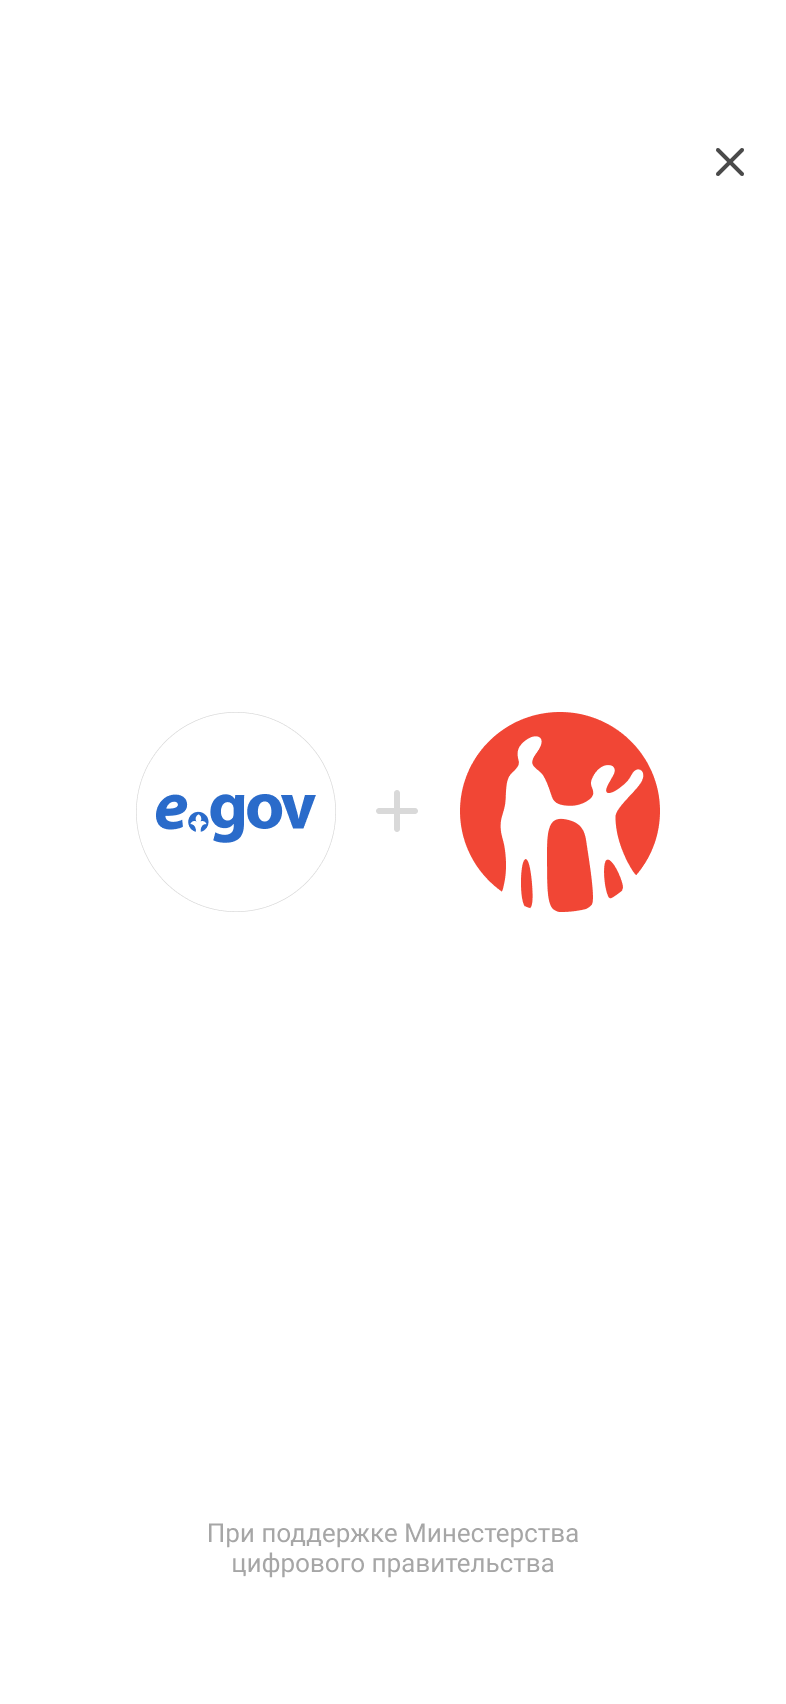
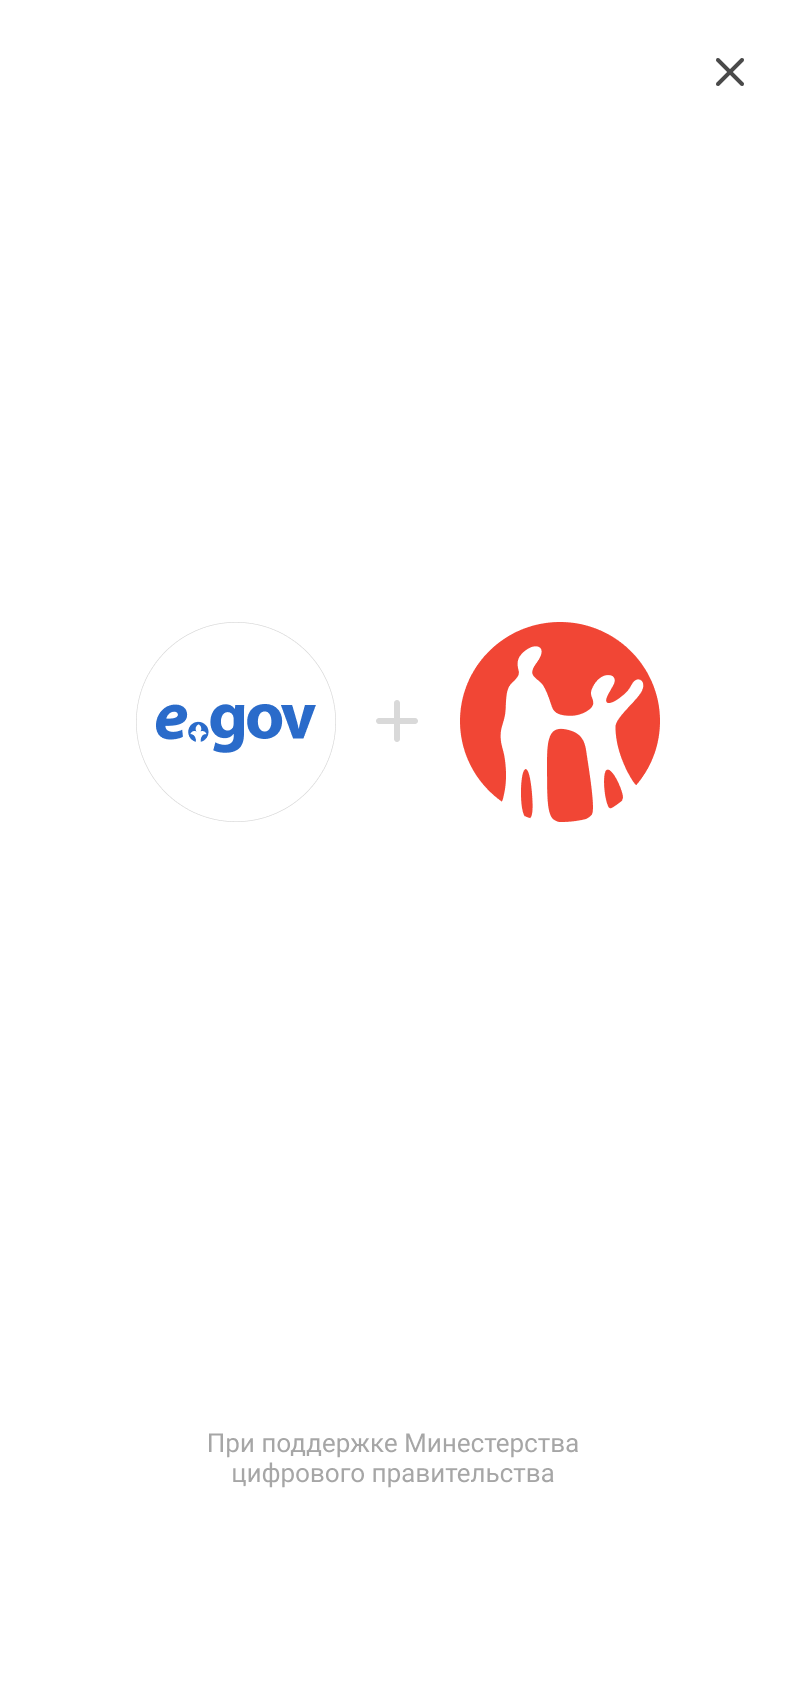
Add files via upload

diff --git a/style.css b/style.css
@@ -11,7 +11,19 @@ body {
     overflow-x: hidden;
 }
 
+body.load-page {
+    position: fixed;
+    width: 100%;
+    height: 100%;
+    overflow: hidden;
+    touch-action: none; /* Полностью блокирует тач-скролл */
+}
 
+a, button, label, .menu-btn, .search-content {
+    -webkit-tap-highlight-color: transparent; /* Убирает системную вспышку при клике */
+    -webkit-touch-callout: none;              /* Отключает контекстное меню при долгом нажатии */
+    user-select: none;                         /* Запрещает случайное выделение текста при кликах */
+}
 
 html,
 body {
@@ -20,6 +32,23 @@ body {
     background: none;
     margin: 0;
     padding: 0;
+}
+
+/* Этот класс полностью выключает скролл только там, где он добавлен */
+body.no-scroll {
+    overflow: hidden;
+    touch-action: none; 
+    height: 100vh;
+}
+
+html, body {
+    /* Отключает системный зум по двойному клику и жестами (pinch-to-zoom) */
+    touch-action: manipulation; 
+}
+
+button, a, .menu-btn, .service-btn, .footer-btn {
+    /* Принудительно отключаем для интерактивных элементов */
+    touch-action: manipulation;
 }
 
 * {
@@ -63,6 +92,8 @@ a {
     border-radius: 8px;
 }
 
+
+
 .search-icon {
     width: 16px;
     height: 16px;
@@ -81,6 +112,7 @@ a {
 .search-input {
     all: unset;
     caret-color: #B12C1F;
+    color: #7a7a7a;
 }
 
 .ad-container {
@@ -340,17 +372,16 @@ a {
 .search-header {
     display: flex;
     align-items: center;
-    width: 393px;
-    height: 54px;
     padding-right: 16px;
-    padding-top: 6px;
+    padding-top: 8px;
     padding-bottom: 8px;
+    margin-left: 3px;
+    margin-top: 1px;
     background-color: white;
     width: 100%;
-    height: 54px;
+    height: 56px;
     box-shadow: 0 0.4px 10px rgba(0, 0, 0, 0.3);
     /* Горизонталь, вертикаль, размытие, цвет */
-    position: fixed;
     top: 0;
     left: 0;
     font-size: 16px;
@@ -769,7 +800,8 @@ input[type="radio"] {
     display: flex;
     flex-direction: column;
     align-items: center;
-    justify-content: center;
+    justify-content: start;
+    margin-top: 30px;
     /* Вычитаем из высоты экрана высоту хедера и футера */
     min-height: calc(100vh - 150px - env(safe-area-inset-top) - env(safe-area-inset-bottom));
     padding: 20px 16px;
@@ -781,8 +813,8 @@ input[type="radio"] {
     justify-content: center;
     width: 200px;
     height: 48px;
-    border: 2px solid #ff3b30;
-    color: #ff3b30;
+    border: 2px solid #dbdbdb;
+    color: #dbdbdb;
     border-radius: 12px;
     font-weight: 600;
 }
@@ -797,16 +829,28 @@ input[type="radio"] {
     position: relative;
     width: 384px;
     height: 493px;
-    border-radius: 12px;
-    overflow: hidden;
-    background: #f9f9f9;
+    overflow: visible; /* Разрешаем картинке выходить за границы при зуме */
+    transition: z-index 0.3s;
 }
 
 .image-wrapper img {
     width: 100%;
     height: 100%;
     object-fit: cover;
-    box-shadow: none;
+    transition: transform 0.3s ease;
+    cursor: zoom-in;
+    z-index: 1;
+}
+
+/* Класс, который будет добавляться через JS */
+.image-wrapper.zoomed img {
+    transform: scale(1.5); /* Масштаб увеличения */
+    z-index: 1000;
+    cursor: zoom-out;
+}
+
+.image-wrapper.zoomed {
+    z-index: 1001;
 }
 
 /* КНОПКА УДАЛЕНИЯ */
@@ -953,7 +997,6 @@ input[type="radio"] {
     display: flex;
     flex-direction: column; /* Заголовок сверху, строка снизу */
     padding: 12px 0;
-    border-bottom: 1px solid #f0f0f2;
 }
 
 .req-item span {
@@ -1156,3 +1199,52 @@ input[type="radio"] {
     font-weight: 700;
     margin: 0;
 }
+
+/* Вкладка Реквизиты — отключаем скролл */
+#tab-req:checked ~ .content-wrapper .page:last-child {
+    overflow: hidden;
+    height: auto;
+    max-height: calc(100vh - 150px); /* Высота без хедера и кнопок */
+}
+
+/* Общая прокрутка страницы UDOS */
+.page {
+    width: 50%;
+    padding-bottom: 20px; /* Уменьшили огромный отступ 160px */
+    min-height: auto; 
+}
+
+/* Если нужно убрать скролл всей страницы, когда открыты реквизиты */
+body:has(#tab-req:checked) {
+    overflow: hidden;
+}
+
+/* Оверлей загрузки */
+.loading-overlay {
+    position: fixed;
+    top: 0; left: 0;
+    width: 100%; height: 100%;
+    background: rgba(255, 255, 255, 0.7); /* Белый полупрозрачный фон */
+    backdrop-filter: blur(2px); /* Легкое размытие как в iOS */
+    display: none; /* По умолчанию скрыт */
+    justify-content: center;
+    align-items: center;
+    z-index: 5000;
+}
+
+/* Крутящийся круг */
+.loader {
+    width: 24px;
+    height: 24px;
+    border: 2px solid #F14635; /* Красный цвет Kaspi */
+    border-bottom-color: transparent; /* Обрезаем круг */
+    border-radius: 50%;
+    display: inline-block;
+    animation: rotation 1s linear infinite;
+}
+
+@keyframes rotation {
+    0% { transform: rotate(0deg); }
+    100% { transform: rotate(360deg); }
+}
+

diff --git a/udos.html b/udos.html
@@ -54,7 +54,7 @@
                     <div id="imageContainer" class="image-preview-container" style="display:none;">
                         <div class="image-wrapper">
                             <img id="idImagePreview" src="" alt="Удостоверение">
-                            <!-- <button class="delete-btn-overlay" onclick="deleteImage(event)">&times;</button> -->
+                            <button class="delete-btn-overlay" onclick="deleteImage(event)">&times;</button>
                         </div>
                         <!-- <p class="delete-text" onclick="deleteImage(event)">Удалить и загрузить заново</p> -->
                     </div>
@@ -135,12 +135,12 @@
         </div>
     </div>
 
-    <div id="zoomModal" class="zoom-overlay" onclick="closeZoom()">
+    <!-- <div id="zoomModal" class="zoom-overlay" onclick="closeZoom()">
         <span class="close-zoom" onclick="closeZoom()">&times;</span>
         <div class="zoom-container">
             <img class="zoom-content" id="zoomedImg">
         </div>
-    </div>
+    </div> -->
     <div id="copy-toast" class="toast"><img src="./image/galochka.png" class="galochka">Скопировано</div>
 
     <script>
@@ -253,11 +253,31 @@
                 scale = matrix.a;
             }
         });
-        function openQrModal() {
-            document.getElementById('qrModal').classList.add('active');
-            // Блокируем скролл основной страницы при открытом окне
-            document.body.style.overflow = 'hidden';
-        }
+       function openQrModal() {
+    const loader = document.getElementById('loadingOverlay');
+    const bottomSheet = document.getElementById('qrModal'); // Используем ID qrModal, так как он у тебя в HTML
+
+    if (!loader || !bottomSheet) return;
+
+    // 1. Показываем загрузку и блокируем скролл
+    loader.style.display = 'flex';
+    document.body.style.overflow = 'hidden';
+
+    // 2. Ждем 1.5 секунды
+    setTimeout(() => {
+        // 3. Скрываем загрузку
+        loader.style.display = 'none';
+        
+        // 4. Плавно открываем QR-модалку
+        bottomSheet.classList.add('active');
+    }, 1500);
+}
+
+// Функцию закрытия оставляем без изменений
+function closeQrModal() {
+    document.getElementById('qrModal').classList.remove('active');
+    document.body.style.overflow = 'auto';
+}
 
         function closeQrModal(e) {
             document.getElementById('qrModal').classList.remove('active');
@@ -355,6 +375,25 @@
                 alert("Реквизиты скопированы в буфер обмена (Share API не поддерживается)");
             }
         }
+        document.querySelector('.image-wrapper').addEventListener('click', function () {
+            this.classList.toggle('zoomed');
+        });
+        function showDocumentWithLoading() {
+    const loader = document.getElementById('loadingOverlay');
+    const bottomSheet = document.getElementById('bottomSheetOverlay');
+
+    // 1. Показываем загрузку
+    loader.style.display = 'flex';
+
+    // 2. Ждем 1.5 секунды (имитация загрузки из базы данных)
+    setTimeout(() => {
+        // 3. Скрываем загрузку
+        loader.style.display = 'none';
+        
+        // 4. Открываем модальное окно с QR
+        bottomSheet.classList.add('active');
+    }, 1500);
+}
     </script>
 
     <div id="qrModal" class="bottom-sheet-overlay" onclick="closeQrModal(event)">
@@ -378,6 +417,9 @@
             </div>
         </div>
     </div>
+    <div id="loadingOverlay" class="loading-overlay">
+    <div class="loader"></div>
+</div>
 </body>
 
 </html>

diff --git a/index.html b/index.html
@@ -22,7 +22,7 @@
         <div class="search-container">
             <div class="search-content">
                 <img src="./image/search.png" alt="" class="search-icon">
-                <a href="search.html"><input type="text" placeholder="Поиск по Kaspi.kz" class="search-input"></a>
+                <a href="search.html"><p class="search-input">Поиск по Kaspi.kz</p>
             </div>
         </div>
     </div>
@@ -156,6 +156,7 @@
             <button class="footer-btn"><img src="./image/footer4.png" alt=""></button>
         </div>
     </div>
+    <script></script>
 </body>
 
 </html>
